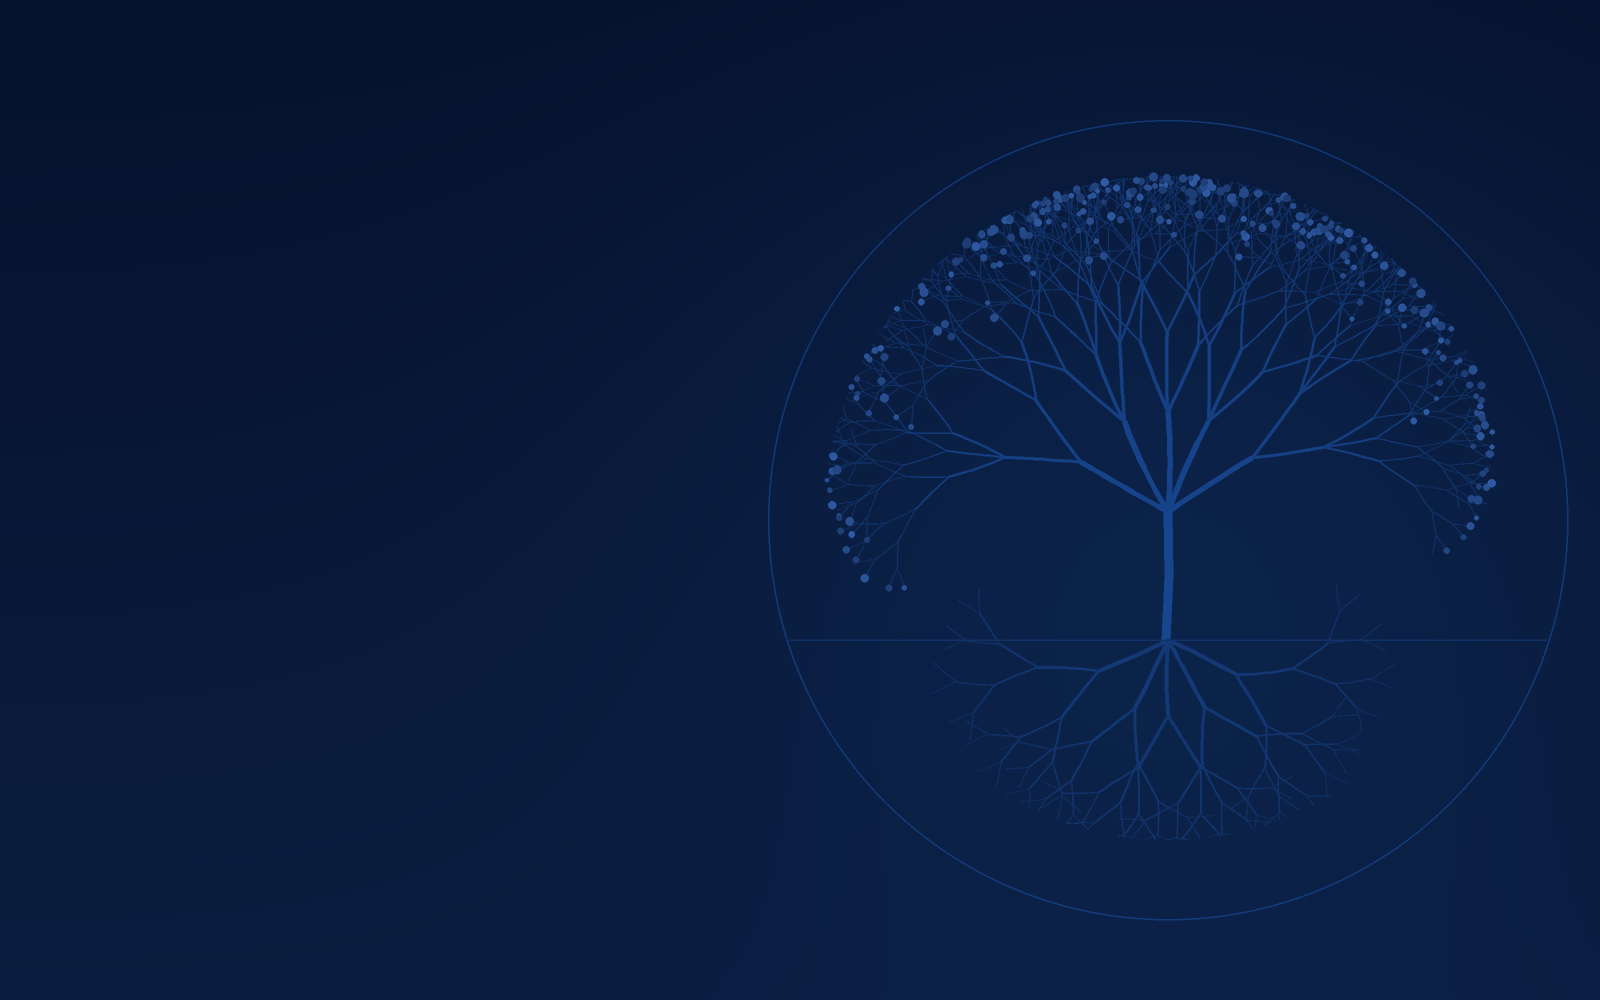
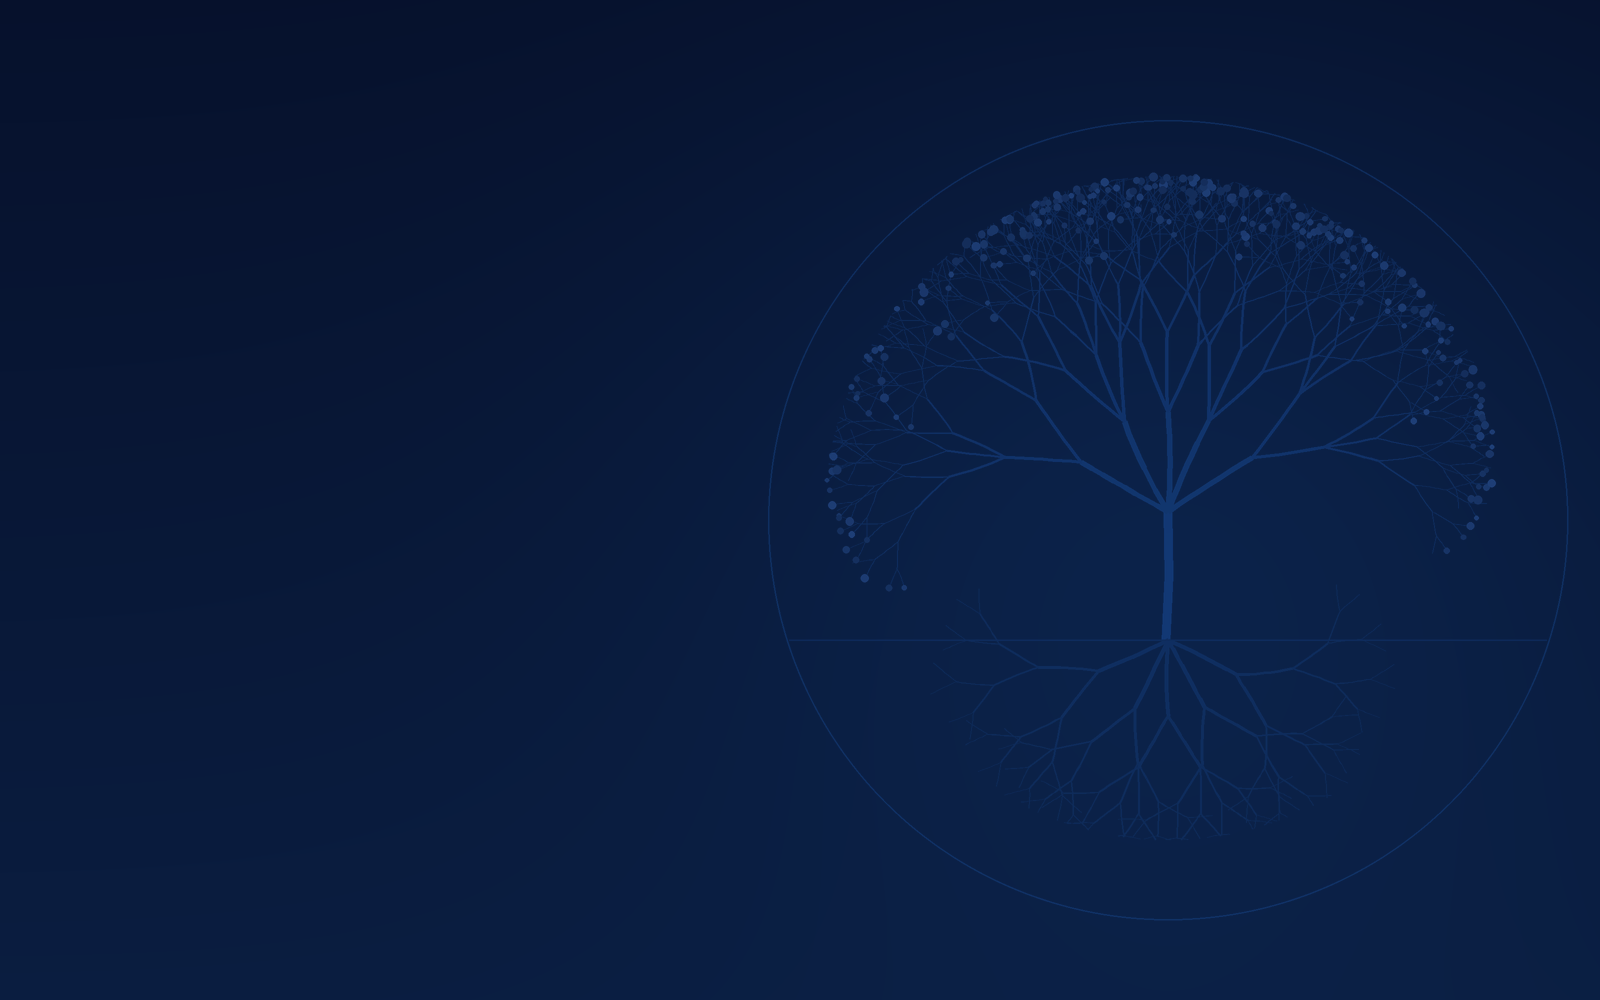
Launcher: quieter tree of life (lower contrast behind content), docs for the sapphire direction and the bundled Inter font
Claude-Session: https://claude.ai/code/session_01LrTtMa2PTsDdRSPhmzq3Wb

diff --git a/treeaicoach/ui_backdrop.py b/treeaicoach/ui_backdrop.py
@@ -75,7 +75,7 @@ def _tree_layer(w: int, h: int, ss: int = 2) -> Any:
         mx, my = (x + ex) / 2 + bend * math.cos(ang), (y + ey) / 2 + bend * math.sin(ang)
         pts = [((1 - t) ** 2 * x + 2 * (1 - t) * t * mx + t * t * ex,
                 (1 - t) ** 2 * y + 2 * (1 - t) * t * my + t * t * ey) for t in (i / 8 for i in range(9))]
-        alpha = int((150 if not down else 120) * (0.55 + 0.45 * depth / 7))
+        alpha = int((88 if not down else 64) * (0.55 + 0.45 * depth / 7))
         stroke(pts, width, alpha)
         if depth <= 0 or length < 6 * unit or clipped:
             if not clipped:
@@ -92,20 +92,20 @@ def _tree_layer(w: int, h: int, ss: int = 2) -> Any:
     ground = cy + 0.30 * R
     fork = cy - 0.02 * R
     trunk_w = 9 * unit
-    stroke([(cx - 2 * unit, ground), (cx + 1 * unit, (ground + fork) / 2), (cx, fork)], trunk_w, 150)
+    stroke([(cx - 2 * unit, ground), (cx + 1 * unit, (ground + fork) / 2), (cx, fork)], trunk_w, 92)
     for a in (-1.05, -0.45, 0.0, 0.42, 1.0):
         grow(cx, fork, a, 0.25 * R, trunk_w * 0.60, 6, False)
     for a in (-1.15, -0.45, 0.0, 0.5, 1.1):
         grow(cx, ground, a, 0.19 * R, trunk_w * 0.45, 4, True)
     # the ring that holds it, and a ground line
     rw = max(1, int(1.6 * unit))
-    d.ellipse((cx - R, cy - R, cx + R, cy + R), outline=LINE + (110,), width=rw)
+    d.ellipse((cx - R, cy - R, cx + R, cy + R), outline=LINE + (66,), width=rw)
     d.line([(cx - 0.97 * R * math.cos(0.22), ground), (cx + 0.97 * R * math.cos(0.22), ground)],
-           fill=LINE + (70,), width=rw)
+           fill=LINE + (44,), width=rw)
     for x, y, up in tips:                      # leaves (and root ends): small sapphire seeds
         if up and rnd.random() < 0.8:
             r = (2.2 + 2.2 * rnd.random()) * unit
-            d.ellipse((x - r, y - r, x + r, y + r), fill=LEAF + (int(70 + 70 * rnd.random()),))
+            d.ellipse((x - r, y - r, x + r, y + r), fill=LEAF + (int(36 + 40 * rnd.random()),))
     return layer.resize((w, h), Image.LANCZOS)
 
 

diff --git a/treeaicoach/ui_widgets.py b/treeaicoach/ui_widgets.py
@@ -234,7 +234,7 @@ def load_fonts() -> int:
 
 
 def apply_theme(app: QtWidgets.QApplication, dark: bool = True) -> Theme:
-    """The one theme (the black hole is dark by nature; ``dark`` is kept for old callers)."""
+    """The one theme (sapphire, dark by design; ``dark`` is kept for old callers)."""
     t = SAPPHIRE
     load_fonts()
     _theme[0] = t
@@ -826,9 +826,9 @@ class Sidebar(QtWidgets.QFrame):
 
 
 class Backdrop(QtWidgets.QWidget):
-    """Central widget painting the black hole (ui_backdrop): rendered once on a worker, then one
-    cached pixmap per window size; a resize drag uses a fast scaled copy, the smooth one (with its
-    stars) comes 120 ms after the last resize. No timer while idle."""
+    """Central widget painting the tree of life (ui_backdrop): rendered once on a worker, then one
+    cached pixmap per window size; a resize drag uses a fast scaled copy, the smooth one comes 120 ms
+    after the last resize. No timer while idle."""
 
     def __init__(self, parent: QtWidgets.QWidget | None = None) -> None:
         super().__init__(parent)

diff --git a/tools/make_backdrop.py b/tools/make_backdrop.py
@@ -1,9 +1,9 @@
-"""Write the launcher's black-hole background (docs/DESIGN.md, "Lanceur").
+"""Write the launcher's sapphire tree-of-life background (docs/DESIGN.md, "Lanceur").
 
     python tools/make_backdrop.py [--out treeaicoach/assets/ui/backdrop.png]
 
-Renders :func:`treeaicoach.ui_backdrop.render_rgb` at 1600 x 1000 (the slow-varying light only:
-the stars are drawn by the window at device resolution) and saves an optimised PNG (~120 KB).
+Renders :func:`treeaicoach.ui_backdrop.render_rgb` at 1600 x 1000 (deep sapphire gradient, line-art
+tree of life) and saves an optimised PNG (~225 KB).
 Run it again after changing the drawing in ``ui_backdrop.py``.
 """
 

diff --git a/tools/launcher_shots.py b/tools/launcher_shots.py
@@ -1,4 +1,4 @@
-"""Screenshots of every launcher page (one theme: the black hole) at 1280 x 720 and 1920 x 1080 (docs/LAUNCHER.md).
+"""Screenshots of every launcher page (one theme: sapphire tree of life) at 1280 x 720 and 1920 x 1080 (docs/LAUNCHER.md).
 
     python tools/launcher_shots.py [--out DIR] [--sizes 1280x720,1920x1080] [--themes light,dark]
 

diff --git a/docs/DESIGN.md b/docs/DESIGN.md
@@ -28,54 +28,52 @@ au lieu de cartes empilées.
 | `ALLY`       | `#4A90D9` | anneau des alliés (couleur d'équipe, pas un accent)          |
 
 Interdits : dégradés violet → bleu / indigo / cyan, violet « vibecode », néon cyan ou violet,
-bordures lumineuses, halos de couleur en fond (hors le trou noir du lanceur), verre dépoli / flou, bleu par défaut des
+bordures lumineuses, halos de couleur en fond (hors l'arbre du lanceur), verre dépoli / flou, bleu par défaut des
 frameworks (`#3B82F6`, `#6366F1`, `#8B5CF6`), gris shadcn / slate `#0F172A` comme identité,
 or / marine du client du jeu (`#C8AA6E`, `#0A1428`, `#010A13`).
 
-## Lanceur (fenêtre principale) : « trou noir » (v2.17)
+## Lanceur (fenêtre principale) : « arbre de vie, saphir » (v2.17)
 
-Qt Widgets (docs/LAUNCHER.md). Un espace profond, calme, avec **un trou noir en fond** : disque
-d'accrétion vu presque par la tranche, son arrière replié en arche au-dessus de l'ombre (lentille
-gravitationnelle), anneau de photons fin, champ d'étoiles. Des panneaux de verre posés dessus. Un
-seul accent, pris dans le disque : **ambre `#F5A25A`**.
+Qt Widgets (docs/LAUNCHER.md). Esprit Apple : calme, aéré, typographie nette, profondeur discrète.
+Tout en saphir : un dégradé bleu nuit, derrière le contenu **un arbre de vie au trait** (tronc,
+branches qui remplissent un cercle, racines en miroir, un anneau fin : le lien avec le logo TreeAI),
+à faible contraste. Des panneaux de verre posés dessus, un seul accent saphir. Pas de lueur, pas de
+néon. (Le « trou noir » de la première version a été refusé : « ça fait trop IA ».)
 
-* **Fond** (`ui_backdrop.py`) : l'image de la lumière est calculée une fois hors ligne
-  (`python tools/make_backdrop.py` -> `assets/ui/backdrop.png`, 1600 × 1000, 115 Ko), décodée sur un
-  thread de fond, mise à la taille de la fenêtre en mode « cover » (le trou reste rond) ; les étoiles
-  (graine fixe, densité par pixel, aucune dans l'ombre) sont dessinées à la résolution de l'écran.
-  Une seule image en cache par taille de fenêtre, que `paintEvent` recopie. **Aucune animation,
-  aucun minuteur : 0 % de processeur au repos.** Pendant un redimensionnement : copie rapide, la
-  version lisse 120 ms après.
-* **Jetons** (`ui_widgets.SPACE`, un seul thème : le trou noir est sombre par nature) : fond
-  `#06060B`, texte `#F2EEE8`, secondaire `#BDB6AE`, tertiaire `#A09990`, accent `#F5A25A` (texte
-  `#1A0D03` dessus), fond sélectionné `#3B2716`, sens : danger `#FF6F6A`, attention `#F2CF55`
-  (jaune, pour ne pas se confondre avec l'accent), sûr `#72D6A0`.
-* **Verre** : cellules `rgba(17,16,23,0,84)` avec un filet `rgba(255,255,255,0,07)`, barre
-  latérale `rgba(6,6,10,0,80)`. Pas de flou (coûteux), pas d'ombre, pas de dégradé dans la feuille
-  de style. `tests/test_design_rules.py` compose le verre sur le pixel **le plus clair** du fond :
-  chaque couleur de texte y garde ≥ 4,5:1.
-* **Police** : Segoe UI Variable (Text / Display) sous Windows, repli Segoe UI, puis Inter / Noto /
-  DejaVu. Titre de page 26 px semi-gras, corps 14, secondaire 13, notes 12 ; jamais en dessous de 12.
+* **Fond** (`ui_backdrop.py`) : dessiné une fois hors ligne (`python tools/make_backdrop.py` ->
+  `assets/ui/backdrop.png`, 1600 × 1000, ~225 Ko), décodé sur un thread de fond, mis à la taille
+  de la fenêtre en mode « cover » (le cercle reste rond), une seule image en cache par taille que
+  `paintEvent` recopie. **Aucune animation, aucun minuteur : 0 % de processeur au repos.**
+* **Jetons** (`ui_widgets.SAPPHIRE`, un seul thème) : fond `#071430`, texte `#F5F8FF`, secondaire
+  `#BFCBE3`, tertiaire `#9DAFD0`, accent `#74A8FA` (texte `#04102A` dessus), sélection `#1F4F9C`,
+  sens : danger `#FF7D75`, attention `#F3D065`, sûr `#72D9A6`. Arbre `#1F5FBF`, graines `#4F8EF7`.
+* **Verre** : cellules `rgba(18,38,74,0,80)` avec un filet `rgba(150,190,255,0,10)`, barre
+  latérale `rgba(5,14,32,0,72)`. Pas de flou, pas d'ombre, pas de dégradé dans la feuille de style.
+  `tests/test_design_rules.py` compose le verre sur le pixel le plus clair du fond : chaque couleur
+  de texte y garde ≥ 4,5:1.
+* **Police** : **Inter** (licence OFL, `assets/fonts`, sous-ensemble latin, 4 fichiers de ~60 Ko :
+  Regular, Medium, SemiBold, Display SemiBold), chargée par `QFontDatabase` ; repli Segoe UI
+  Variable. Titre de page 26 px semi-gras (Inter Display), corps 14, secondaire 13, notes 12 ;
+  jamais en dessous de 12.
 * **Navigation** : une page = un but, rangées par fréquence d'usage. En haut, ce qui sert à chaque
   partie : Accueil · Overlay · Alertes et voix · Discord · Analyse. En bas, sous « Configuration »,
   ce qu'on règle une fois : Réglages (démarrage, après la partie, fenêtre, IA, touches) · Avancé
   (minimap, analyse, performance, maintenance) · À propos (Ctrl+1 … 8). Page courante : fond
-  `#3B2716`, icône ambre ; les autres icônes en secondaire. Logo (tuile ambre, arbre « espace »)
-  à côté du nom.
+  `#1F4F9C`, icône blanche ; les autres icônes en secondaire. Logo (tuile saphir, arbre blanc) à
+  côté du nom.
 * **Page** = grand titre, une phrase, puis des **listes groupées** : petit titre de section, une
   cellule de verre arrondie (10 px), lignes séparées par un filet décalé de 16 px, une note sous la
   cellule si besoin. Colonne centrée de 760 px au plus.
 * **Ligne** : titre (14) + description (13, secondaire) à gauche, contrôle à droite ; 48 px minimum.
-* **Contrôles** : interrupteur 42 × 24 (ambre allumé), contrôle segmenté (segment choisi en
-  `#3B2716`), menu à double chevron, curseur avec sa valeur, boutons arrondis 7 px ; un seul bouton
+* **Contrôles** : interrupteur 42 × 24 (saphir allumé), contrôle segmenté (segment choisi en
+  `#1F4F9C`), menu à double chevron, curseur avec sa valeur, boutons arrondis 7 px ; un seul bouton
   accent par zone.
 * **Accueil** commence par **une** ligne d'état (`ui_kit.status_line`) et le bouton Démarrer / Arrêter.
 * Chaque champ de `Config` a un contrôle, ou figure dans `ui_common.HIDDEN_SETTINGS` avec sa raison
   (`tests/test_launcher.py`) ; un réglage n'existe qu'à un seul endroit.
 * **Interdits** en plus de la liste ci-dessus : néon, bordures lumineuses, halos de couleur autour
   des contrôles, verre dépoli (flou), animations décoratives (le fond est fixe), icônes colorées
-  multiples, cartes dans des cartes. Le trou noir est **le seul** élément décoratif, et il reste
-  derrière.
+  multiples, cartes dans des cartes. L'arbre est **le seul** élément décoratif, et il reste derrière.
 
 ## Textes
 

diff --git a/docs/LAUNCHER.md b/docs/LAUNCHER.md
@@ -77,11 +77,11 @@ thread de fond qui remplit ensuite la liste.
 * **Fenêtre** : taille et position mémorisées (`ui_geometry`, format `LxH+X+Y`), remises sur
   l'écran si l'écran a changé, taille minimale 960 × 600 (utilisable en 1280 × 720). DPI par
   écran : Qt 6 (arrondi « PassThrough ») ; `ui_scaling` force un facteur au prochain lancement.
-* **Thème** : un seul, « trou noir » (docs/DESIGN.md) ; le fond est une image en cache (`ui_widgets.Backdrop`), aucun minuteur.
+* **Thème** : un seul, « arbre de vie, saphir » (docs/DESIGN.md), police Inter embarquée ; le fond est une image en cache (`ui_widgets.Backdrop`), aucun minuteur.
 
 ## Outils
 
 * `python tools/launcher_bench.py [--profile]` : temps de création, de chaque page, des changements, processeur au repos (3 s de vraie boucle d'événements).
-* `python tools/make_backdrop.py` : régénère l'image du trou noir (`assets/ui/backdrop.png`).
+* `python tools/make_backdrop.py` : régénère l'image de l'arbre de vie (`assets/ui/backdrop.png`).
 * `python tools/launcher_shots.py [--out DIR]` : captures de chaque page en
   1280 × 720 et 1920 × 1080 (moteur factice « en attente d'une partie », trois parties fictives).
